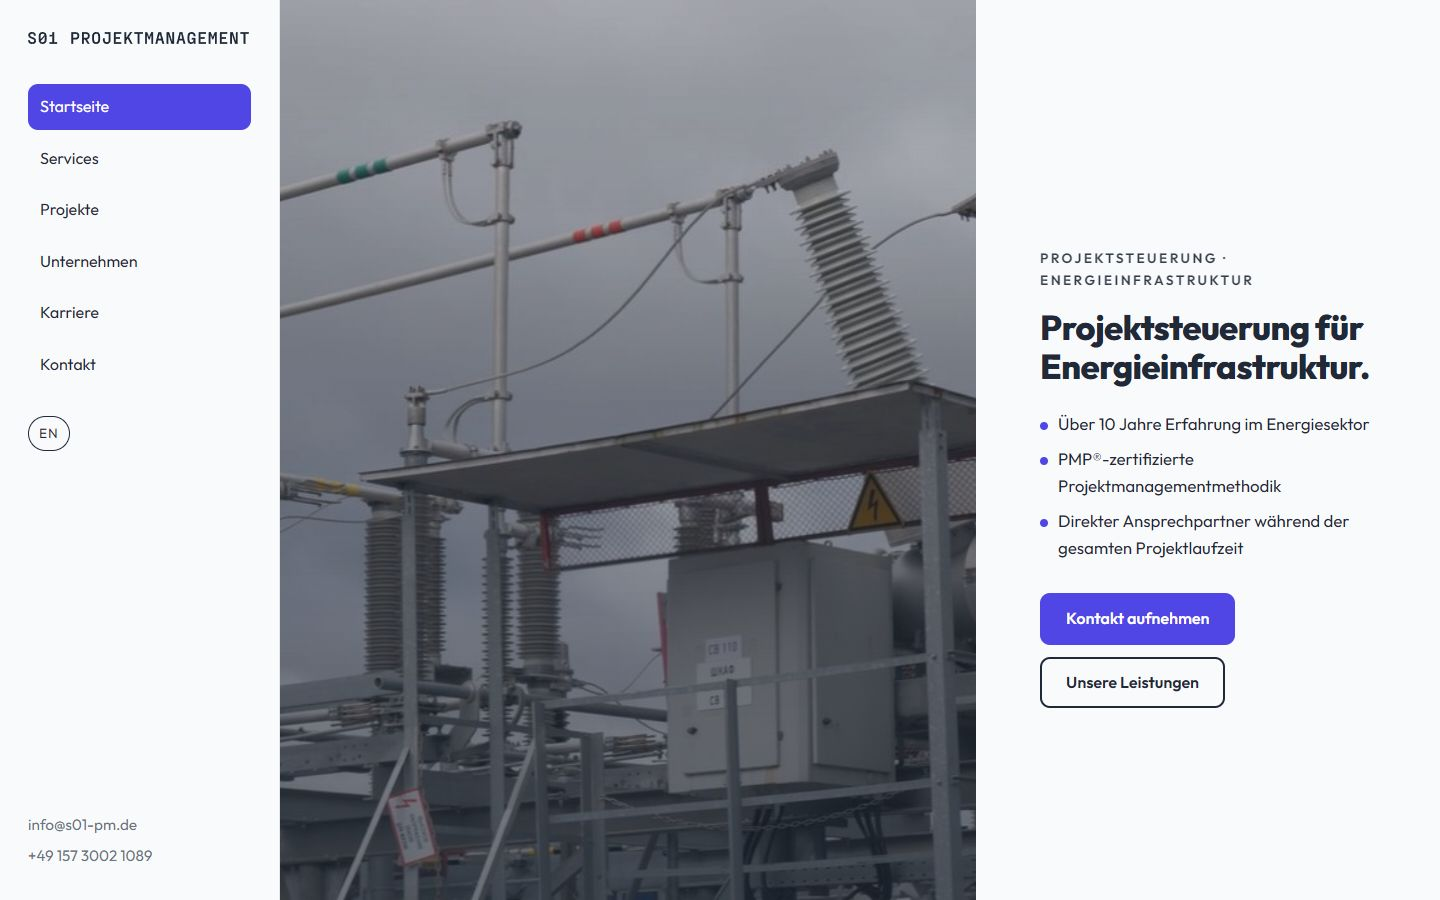
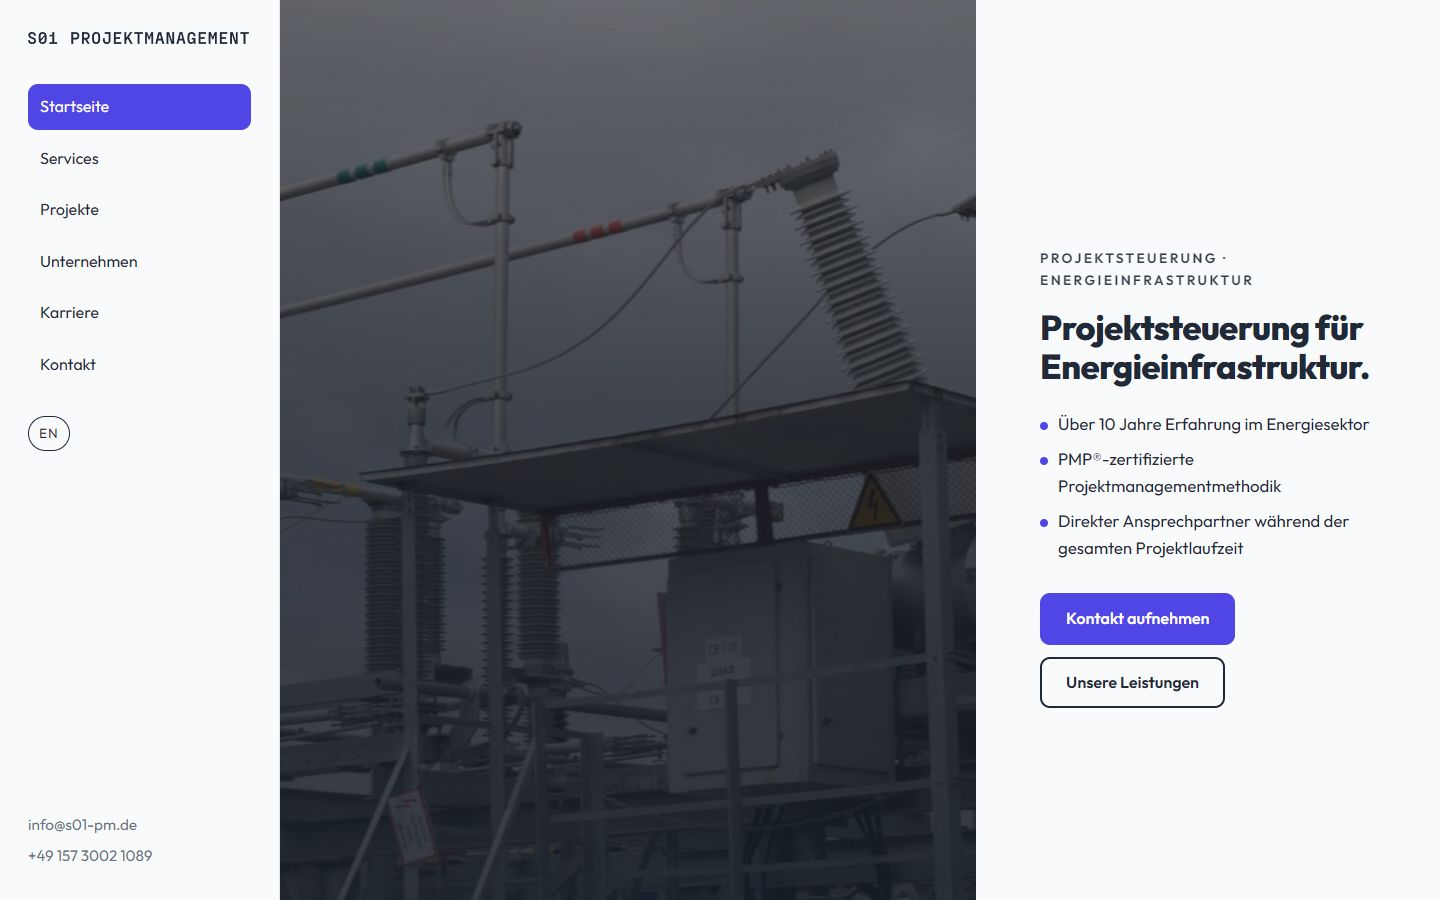
Readable hero text on pale video frames, 20-letter headlines at 360px, stacked projects table on phones
Kit: a fixed darkening floor under every theme hero overlay (and on photo page heroes) so white hero text meets 4.5:1 on the palest frames, measured over 22 frames per demo; the default h1 steps down between 360 and 639px and page-hero titles get a 24ch box so Datenschutzerklaerung fits at 360px; the projects table stacks its rows below 640px with a label on the services cell instead of hiding a column behind an inner scroll. Themes: Navy CTA hover keeps readable text and its description names the deeper blue; 02 and 11 size the page-hero title on phones; 12, 13 and 20 lower their headline floors; 15, 17 and 19 darken their overlays (17 keeps the floor inside its scanline override). Thumbnails regenerated for all 24 demos.

Claude-Session: https://claude.ai/code/session_01MvgPpcENZGA6QrERHRxL79

diff --git a/kit/base.css b/kit/base.css
@@ -29,7 +29,8 @@
 }
 @media (min-width: 640px) { :root { --gutter: 24px; --section-y: 88px; } }
 @media (min-width: 1024px) { :root { --gutter: 32px; --section-y: 112px; } }
-@media (max-width: 359px) { :root { --h1: clamp(1.75rem, 9vw, 2rem); --h2: 1.6rem; } }
+@media (max-width: 639px) { :root { --h1: clamp(1.7rem, 8vw, 2rem); } }
+@media (max-width: 359px) { :root { --h2: 1.6rem; } }
 
 /* ===== Reset ===== */
 *, *::before, *::after { box-sizing: border-box; }
@@ -184,7 +185,8 @@ body.nav-transparent-layout:not(.page-home) .nav-transparent:not(.is-scrolled), 
 .hero-media { position: absolute; inset: 0; background-size: cover; background-position: center; z-index: 0; }
 .hero-video { position: absolute; inset: 0; width: 100%; height: 100%; object-fit: cover; }
 .video-failed .hero-video { display: none; }
-.hero-overlay { position: absolute; inset: 0; background: var(--hero-overlay); }
+/* Theme overlay on top of a fixed darkening floor, so white hero text stays readable on the palest video frames. */
+.hero-overlay { position: absolute; inset: 0; background: var(--hero-overlay), linear-gradient(180deg, rgba(0, 0, 0, 0.4), rgba(0, 0, 0, 0.6)); }
 .hero-content { position: relative; z-index: 1; padding-top: calc(var(--nav-h) + 48px); padding-bottom: 14vh; max-width: var(--max-width); }
 .hero-eyebrow { text-transform: uppercase; letter-spacing: 0.18em; font-size: 0.85rem; font-weight: 600; margin-bottom: 16px; opacity: 0.9; }
 .hero-title { max-width: 22ch; margin-bottom: 24px; text-wrap: balance; }
@@ -234,12 +236,12 @@ body.snap-home .site-footer { scroll-snap-align: end; }
 /* ===== Page hero (subpages) ===== */
 .page-hero { position: relative; padding: 56px 0 48px; background: var(--surface); overflow: hidden; isolation: isolate; }
 .page-hero .container { position: relative; z-index: 1; }
-.page-hero h1 { margin-bottom: 12px; max-width: 18ch; }
+.page-hero h1 { margin-bottom: 12px; max-width: 24ch; }
 .page-hero .lead { max-width: 720px; margin: 0; }
 .page-hero.has-media { color: var(--hero-fg); min-height: 52svh; display: flex; align-items: flex-end; }
 .page-hero.has-media .lead { color: inherit; opacity: 0.9; }
 .page-hero-media { position: absolute; inset: 0; z-index: 0; }
-.page-hero-media::after { content: ""; position: absolute; inset: 0; background: var(--hero-overlay); }
+.page-hero-media::after { content: ""; position: absolute; inset: 0; background: var(--hero-overlay), linear-gradient(180deg, rgba(0, 0, 0, 0.4), rgba(0, 0, 0, 0.6)); }
 .page-hero-media img { width: 100%; height: 100%; object-fit: cover; }
 .breadcrumb { display: flex; gap: 10px; font-size: 0.85rem; margin-bottom: 20px; opacity: 0.85; }
 .breadcrumb a { text-decoration: none; }
@@ -318,6 +320,14 @@ body.snap-home .site-footer { scroll-snap-align: end; }
 .table thead th { font-size: 0.8rem; text-transform: uppercase; letter-spacing: 0.1em; color: var(--muted); }
 .table th[scope="row"] { font-family: var(--font-heading); font-size: 1.1rem; font-weight: 700; }
 .table td.num { width: 48px; }
+@media (max-width: 639px) {
+  .projects-table .table, .projects-table tbody, .projects-table tr, .projects-table th, .projects-table td { display: block; }
+  .projects-table thead { position: absolute; width: 1px; height: 1px; overflow: hidden; clip: rect(0 0 0 0); }
+  .projects-table tr { border-top: 1px solid var(--border); padding: 20px 0; }
+  .projects-table .table th, .projects-table .table td { border: 0; padding: 4px 0; }
+  .projects-table .table td.num { width: auto; font-size: 0.8rem; color: var(--muted); }
+  .projects-table td[data-label]::before { content: attr(data-label); display: block; font-size: 0.75rem; text-transform: uppercase; letter-spacing: 0.1em; color: var(--muted); margin: 8px 0 4px; }
+}
 .masonry { columns: 1; column-gap: 24px; }
 @media (min-width: 768px) { .masonry { columns: 2; } }
 .masonry .card { break-inside: avoid; margin-bottom: 24px; display: block; }

diff --git a/demos/17-mission-control/theme.css b/demos/17-mission-control/theme.css
@@ -20,7 +20,7 @@
 .eyebrow::before, .hero-eyebrow::before { content: "[ "; }
 .eyebrow::after, .hero-eyebrow::after { content: " ]"; }
 .eyebrow, .hero-eyebrow { color: var(--accent); letter-spacing: 0.1em; }
-.hero-overlay { background: var(--hero-overlay), repeating-linear-gradient(0deg, rgba(0, 0, 0, 0.18) 0 2px, transparent 2px 4px); }
+.hero-overlay { background: var(--hero-overlay), repeating-linear-gradient(0deg, rgba(0, 0, 0, 0.18) 0 2px, transparent 2px 4px), linear-gradient(180deg, rgba(0, 0, 0, 0.4), rgba(0, 0, 0, 0.6)); }
 .hero-title::after { content: "_"; color: var(--accent); animation: blink 1s steps(2) infinite; }
 @keyframes blink { 50% { opacity: 0; } }
 .hero-bullets li::before { background: var(--accent); border-radius: 0; }

diff --git a/kit/components/projects.js b/kit/components/projects.js
@@ -22,7 +22,7 @@ export const projects = {
   table(ctx) {
     const p = ctx.t.pages.projects;
     return wrap('projects-table', `<div class="table-wrap"><table class="table"><thead><tr><th scope="col">#</th><th scope="col">${esc(p.label)}</th><th scope="col">${esc(p.servicesLabel)}</th></tr></thead><tbody>${p.items
-      .map((it, i) => `<tr><td class="num">${num(i)}</td><th scope="row">${esc(it.title)}</th><td>${list(it.services, 'plain')}</td></tr>`)
+      .map((it, i) => `<tr><td class="num">${num(i)}</td><th scope="row">${esc(it.title)}</th><td data-label="${esc(p.servicesLabel)}">${list(it.services, 'plain')}</td></tr>`)
       .join('')}</tbody></table></div>`);
   },
   masonry(ctx) {

diff --git a/demos/02-cinematic/theme.css b/demos/02-cinematic/theme.css
@@ -20,7 +20,7 @@
 h1, h2, h3, .eyebrow, .hero-eyebrow, .btn, .site-nav a, .tagline, .lang-toggle, .acc-trigger { text-transform: uppercase; }
 h1 { letter-spacing: 0.02em; font-weight: 900; }
 h2 { letter-spacing: 0.02em; font-weight: 700; }
-@media (max-width: 639px) { h2, h3, .acc-trigger { text-transform: none; letter-spacing: -0.01em; } }
+@media (max-width: 639px) { h2, h3, .acc-trigger { text-transform: none; letter-spacing: -0.01em; } .page-hero h1 { font-size: 1.5rem; text-transform: none; letter-spacing: -0.01em; } }
 .page-hero h1 { max-width: none; }
 h3 { letter-spacing: 0.03em; font-size: 1rem; }
 .acc-trigger { letter-spacing: 0.06em; font-size: 0.9rem; }

diff --git a/demos/04-corporate-navy/theme.css b/demos/04-corporate-navy/theme.css
@@ -22,6 +22,7 @@ body::before { content: ""; position: fixed; top: 0; left: 0; right: 0; height: 
 .section:nth-of-type(even) { background: var(--surface); }
 .hero-bullets li::before { background: var(--accent-2); }
 .btn-primary:hover { background: var(--accent-2); border-color: var(--accent-2); }
+.cta-box .btn-primary:hover { background: var(--surface); border-color: var(--surface); color: var(--accent); }
 @media (min-width: 1024px) {
   .site-nav li:last-child a { background: var(--accent); color: var(--accent-fg); padding: 10px 18px; border-radius: 999px; }
   .site-nav li:last-child a:hover { background: var(--accent-2); color: #ffffff; }

diff --git a/demos/11-industrial/theme.css b/demos/11-industrial/theme.css
@@ -40,3 +40,4 @@ h3 { font-weight: 700; font-size: 1.5rem; letter-spacing: 0.02em; }
 .site-footer .footer-top { border-bottom-color: #444444; }
 .site-footer .btn-primary { background: var(--accent); color: var(--accent-fg); }
 .word-grid li { border-left: 6px solid var(--accent); border-radius: 0; }
+@media (max-width: 639px) { .page-hero h1 { font-size: 1.6rem; } }

diff --git a/demos/15-parallax/theme.css b/demos/15-parallax/theme.css
@@ -9,7 +9,7 @@
   --accent-fg: #ffffff;
   --accent-2: #67e8f9;
   --hero-fg: #ffffff;
-  --hero-overlay: linear-gradient(180deg, rgba(14, 116, 144, 0.25), rgba(26, 43, 60, 0.7));
+  --hero-overlay: linear-gradient(180deg, rgba(14, 116, 144, 0.45), rgba(26, 43, 60, 0.75));
   --radius: 12px;
   --radius-lg: 18px;
   --shadow: 0 24px 60px rgba(26, 43, 60, 0.14);

diff --git a/demos/13-sidebar/theme.css b/demos/13-sidebar/theme.css
@@ -16,7 +16,7 @@
   --font-heading: "Outfit", system-ui, sans-serif;
   --font-body: "Outfit", system-ui, sans-serif;
   --section-y: 64px;
-  --h1: clamp(2.2rem, 4.5vw, 3.6rem);
+  --h1: clamp(2rem, 4.5vw, 3.6rem);
   --h2: clamp(1.5rem, 2.6vw, 2.1rem);
 }
 .card, .feature .pillar, .form, .step, .stat, .tabs [role="tabpanel"] { box-shadow: var(--shadow); }

diff --git a/demos/19-soft-rounded/theme.css b/demos/19-soft-rounded/theme.css
@@ -9,7 +9,7 @@
   --accent-fg: #ffffff;
   --accent-2: #93c5fd;
   --hero-fg: #ffffff;
-  --hero-overlay: linear-gradient(180deg, rgba(45, 42, 50, 0.2), rgba(194, 65, 12, 0.45));
+  --hero-overlay: linear-gradient(180deg, rgba(45, 42, 50, 0.45), rgba(120, 40, 8, 0.6));
   --radius: 24px;
   --radius-lg: 32px;
   --shadow: 0 20px 50px rgba(194, 65, 12, 0.1);

diff --git a/demos/20-sidebar-dark/theme.css b/demos/20-sidebar-dark/theme.css
@@ -16,7 +16,7 @@
   --font-heading: "Rubik", system-ui, sans-serif;
   --font-body: "Rubik", system-ui, sans-serif;
   --section-y: 72px;
-  --h1: clamp(2rem, 4.5vw, 3.8rem);
+  --h1: clamp(1.85rem, 4.5vw, 3.8rem);
 }
 .eyebrow { color: var(--accent-2); }
 .card, .feature .pillar, .form, .step, .stat { box-shadow: var(--shadow); }

diff --git a/demos/12-neo-classical/theme.css b/demos/12-neo-classical/theme.css
@@ -15,7 +15,7 @@
   --shadow: none;
   --font-heading: "Cormorant Garamond", Georgia, serif;
   --font-body: "Lato", system-ui, sans-serif;
-  --h1: clamp(2.2rem, 7vw, 6rem);
+  --h1: clamp(2.1rem, 7vw, 6rem);
   --h2: clamp(2.2rem, 4.5vw, 3.6rem);
 }
 h1, h2, h3 { font-weight: 600; letter-spacing: 0; }
